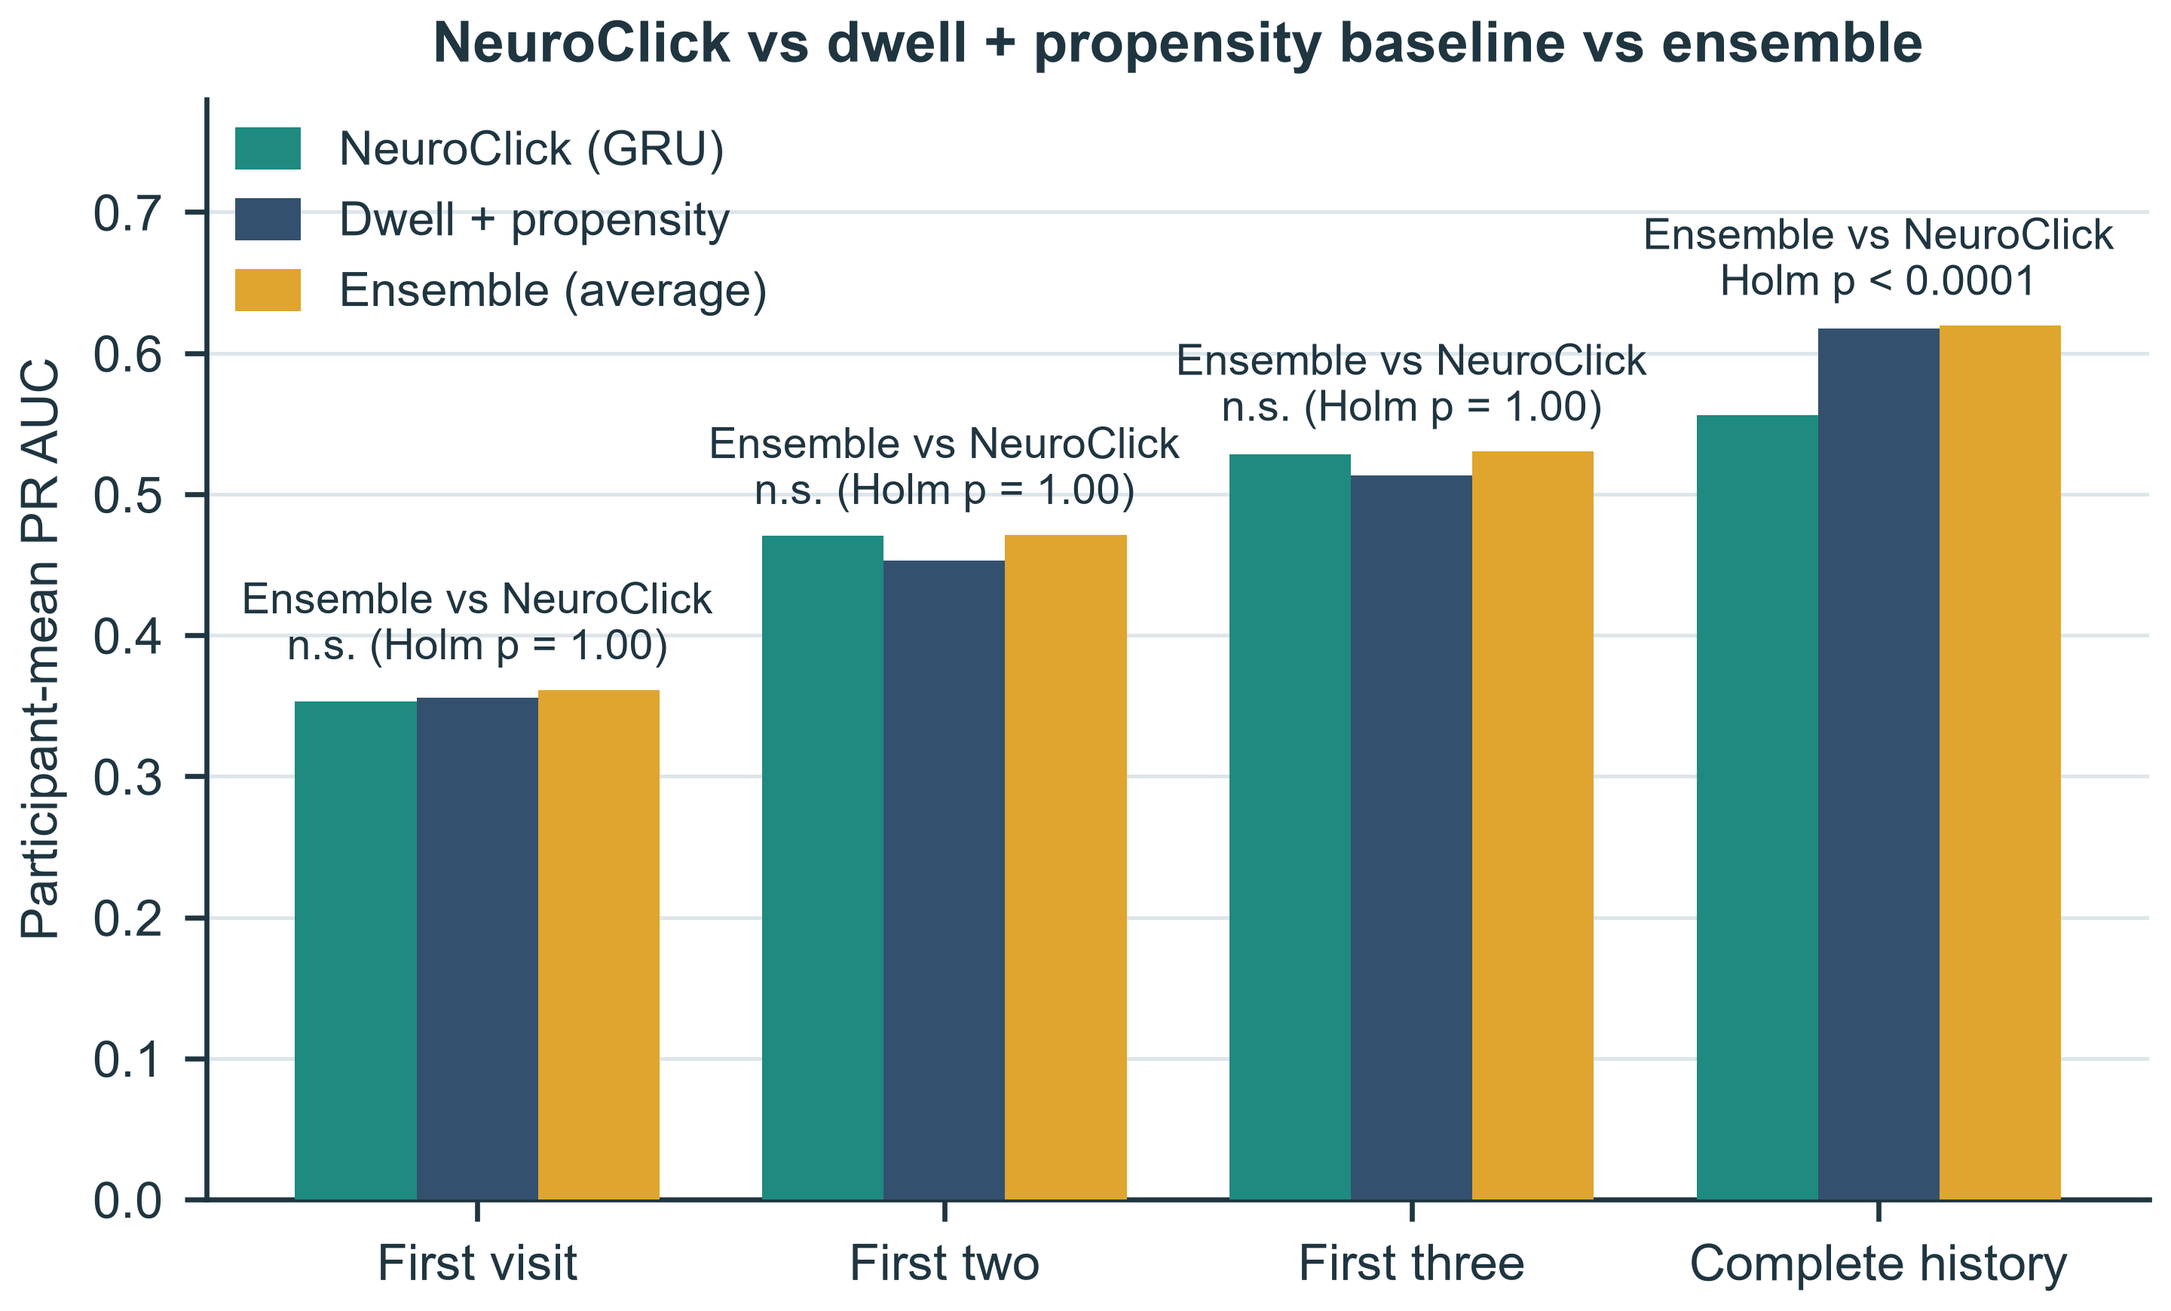
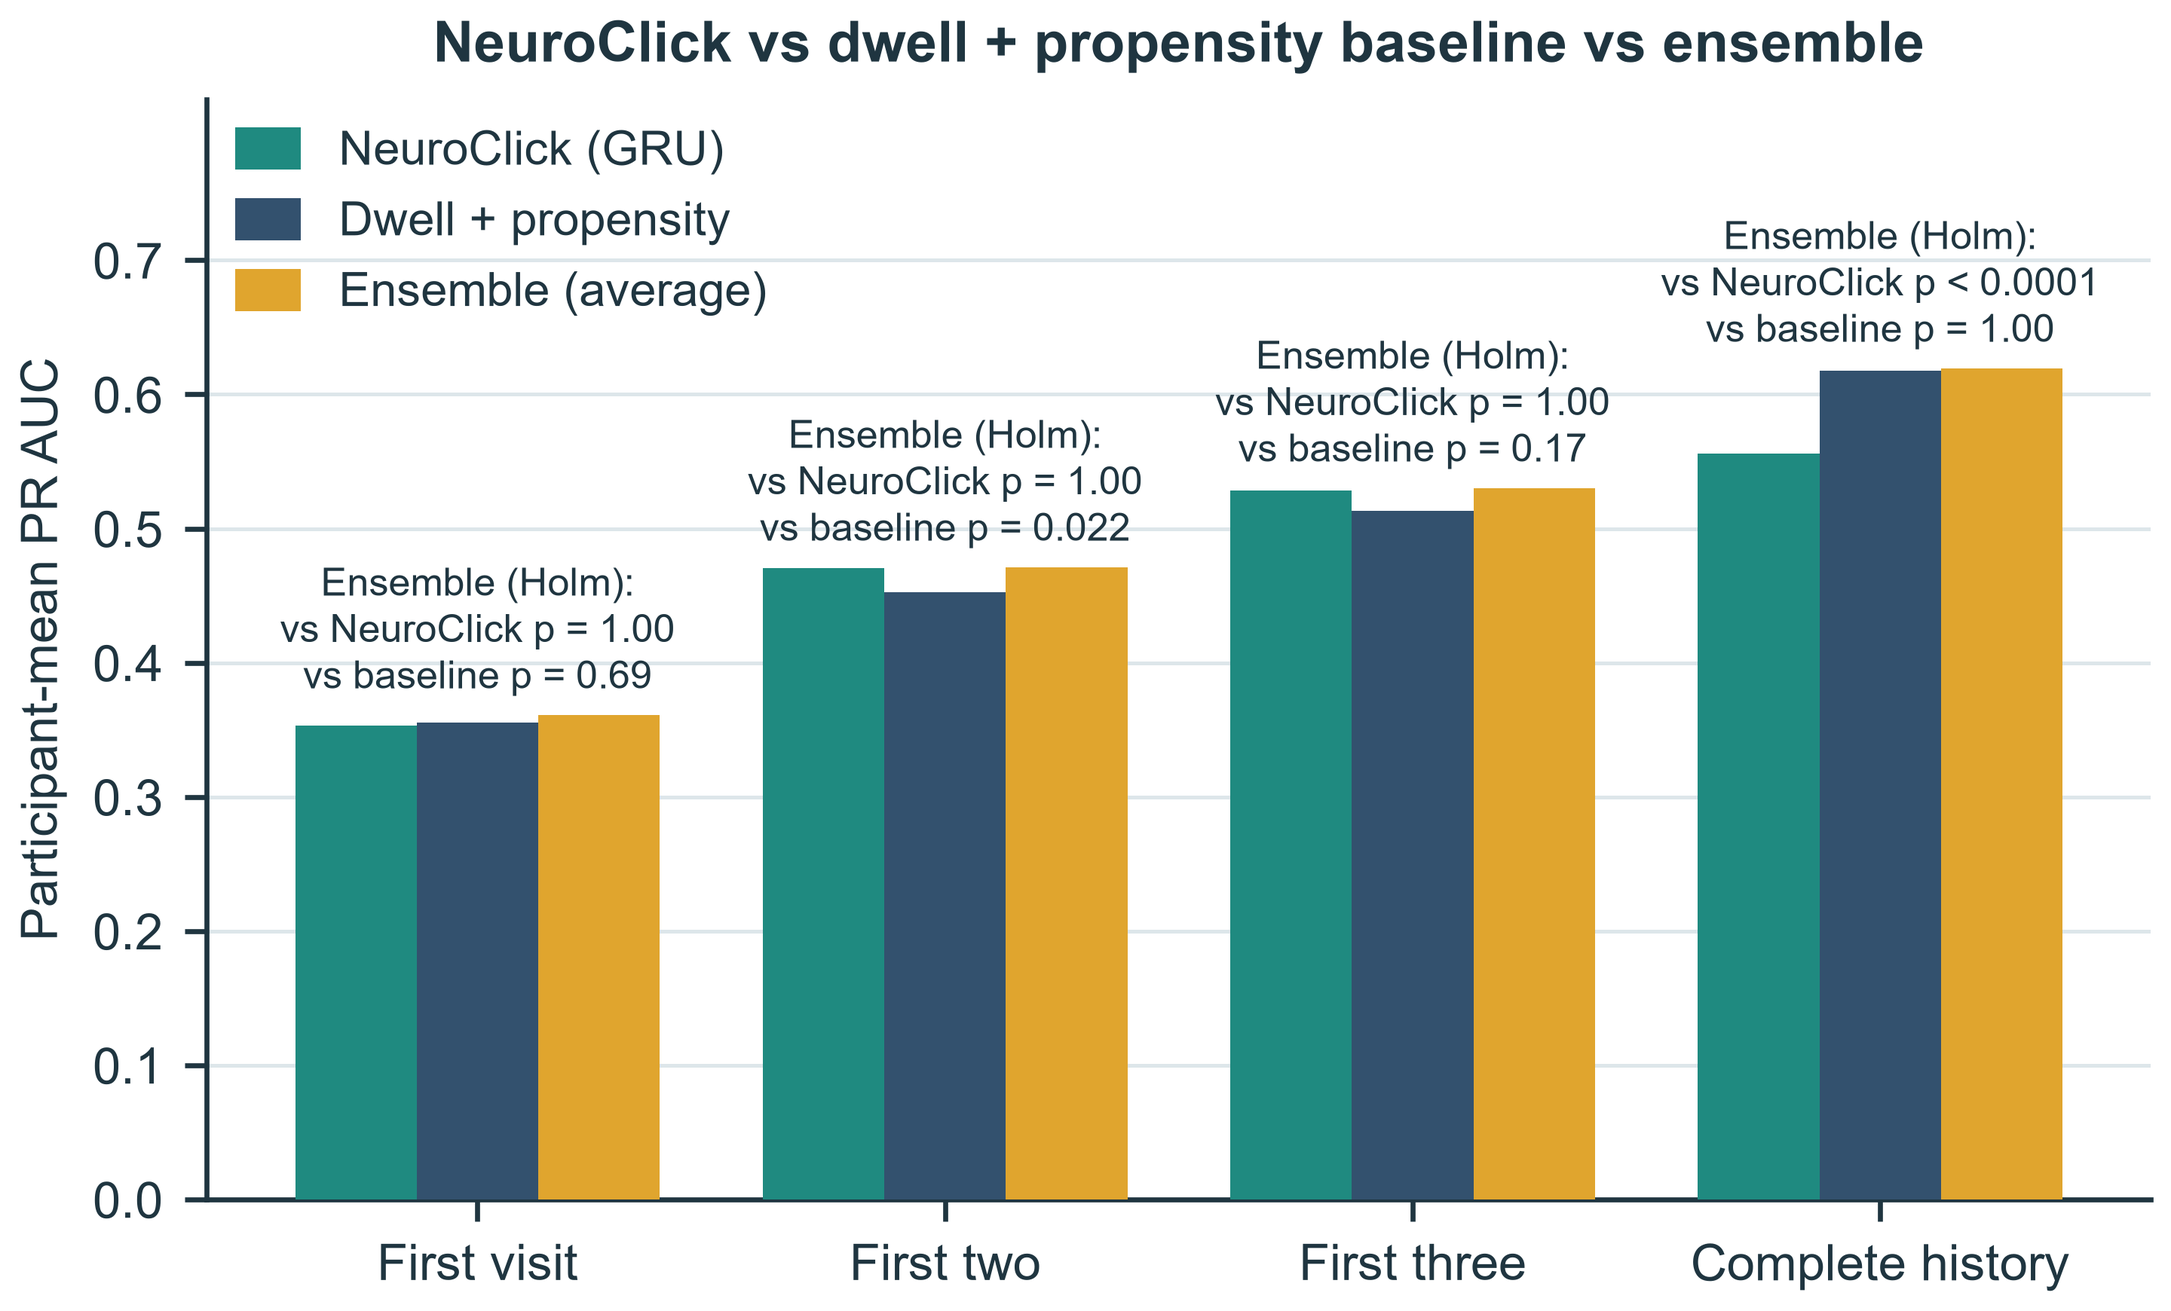
Camera-ready v10: second-audit edits (methods from code, exploratory labels, Fig. 7 with both p-values)

diff --git a/camera_ready/scripts/v6/apply_edits_v10.py b/camera_ready/scripts/v6/apply_edits_v10.py
@@ -1,0 +1,94 @@
+"""v10: second external audit. Every methods statement below was read from the released scripts
+(04_run_neuroclick_hazard.py, 03_run_classical_losocv_benchmarks.py, 02_build_..._causal_v1.py,
+01_audit_buy_nobuy_events.py) and the audit manifest (results/audit_full_42_v2)."""
+import os
+from lxml import etree
+W = 'http://schemas.openxmlformats.org/wordprocessingml/2006/main'
+def w(t): return '{%s}%s' % (W, t)
+BASE = os.path.dirname(os.path.abspath(__file__))
+DOC = os.path.join(BASE, 'unpacked', 'word', 'document.xml')
+tree = etree.parse(DOC); root = tree.getroot(); body = root.find(w('body')); ch = list(body)
+def ptext(p): return ''.join(t.text or '' for t in p.iter(w('t')))
+def rep(idx, old, new):
+    p = ch[idx]; hits = [t for t in p.iter(w('t')) if t.text and old in t.text]
+    assert len(hits) == 1 and hits[0].text.count(old) == 1, (idx, old[:60], len(hits), ptext(p)[:90])
+    hits[0].text = hits[0].text.replace(old, new); print(f'[{idx}] ok: {old[:55]}')
+
+# ---- 5. overstated wording + 1. ensemble qualification (abstract, intro, contribution 4)
+rep(5, 'but a logistic regression given the identical behaviour-plus-propensity inputs matched it (participant-mean difference −0.0025, Holm p = 0.76): at the first visit, browsing behaviour and propensity carry the measurable signal and the sequential architecture adds nothing measurable beyond them.',
+       'but a logistic regression given the same browsing-behaviour information plus the identical cross-fitted propensity matched it (participant-mean difference −0.0025, Holm p = 0.76): no statistically detectable advantage of the sequential architecture was observed at the first visit.')
+rep(5, 'A leakage-free ensemble of NeuroClick and this baseline', 'A parameter-free average ensemble of NeuroClick and this baseline')
+rep(9, 'Unlike conventional propensity-based purchase prediction, which produces a single retrospective score per user–item pair once the interaction is complete, this formulation estimates risk while browsing is still in progress,',
+       'Unlike purchase-prediction models that score a user–item pair only once the interaction is complete, this formulation estimates risk after each completed visit while browsing is still in progress,')
+rep(13, 'A horizon-wise, leakage-free ensemble analysis,', 'A horizon-wise ensemble analysis,')
+
+# ---- 4. sample retention (Sect. 3.1) and completed-visit definition + window end + truncation counts (Sect. 3.2)
+rep(21, 'The final cache contains 5,715 sequences: 746 Buy and 4,969 NoBuy sequences (Table 1);',
+        'Of the 6,048 participant-product pairs, 333 (10 of them with a recorded purchase click) received no gaze visit of at least 100 ms before their cutoff (Sect. 3.2) and are excluded; the final cache contains the remaining 5,715 sequences: 746 Buy and 4,969 NoBuy sequences (Table 1);')
+rep(28, 'A visit is retained only if it begins before its cutoff. Its end is clipped to the earliest of the observed end, the page-interval end, and the cutoff. One second of preceding signal history is sampled for the EEG and eye-tracking representations; missing history is marked by a validity mask.',
+        'A visit is retained only if it begins before its cutoff. Its end is the earliest of the observed end, the page-interval end, and the cutoff, so a retained visit may end naturally or be truncated at the cutoff; a "completed visit" in this paper is a visit that has reached this end, not necessarily one that gaze has left. Truncation is common for Buy sequences, because participants were usually still looking at the product 500 ms before clicking: the last pre-cutoff visit was still in progress at the cutoff in 490 of the 746 Buy sequences. The first visit itself is truncated only when it is the sole visit, which happened in 67 of the 93 single-visit Buy sequences (9.0% of all Buy first visits); every other Buy first visit ended naturally because a later visit followed. For each retained visit, the one second of signal immediately preceding its end is resampled for the EEG and eye-tracking representations, using only samples before that end; missing history is marked by a validity mask.')
+
+# ---- 2. final outer-fold fit (Sect. 3.5) and 3. baseline inputs, PR AUC implementation, pooled vs participant-level
+rep(43, 'the validation subset holds out 20% of training participants by grouped split (seed 42, deterministic).',
+        'the validation subset holds out 20% of training participants by grouped split (seed 42, deterministic). The early-stopped network serves only to choose the epoch count and the MCC thresholds: the network scored on the test participant is retrained from scratch on all 41 training participants for exactly that number of epochs, with the feature scaler and the training propensity refit on those 41 participants, and the inner-validation thresholds are applied unchanged to its test predictions.')
+rep(43, 'a classical logistic-regression baseline given the identical behaviour features plus the identical cross-fitted propensity (Sect. 4.1; labelled dwell + propensity in the tables and figures)',
+        'a classical logistic-regression baseline given a summary of the same visit history plus the identical cross-fitted propensity logit (Sect. 4.1; labelled dwell + propensity in the tables and figures)')
+rep(43, 'Every classical baseline standardises its inputs on the training partition',
+        'The classical behaviour baselines (logistic behaviour and dwell + propensity) do not receive NeuroClick\'s per-visit sequence; at every horizon they receive a ten-value summary of the visits observed up to that horizon: visit count; total, mean, standard-deviation and maximum dwell; elapsed time from the first visit\'s start to the current visit\'s end; mean and maximum inter-visit gap; and the mean EEG and eye-tracking validity fractions. At first1 this reduces to the initial dwell and the validity fractions. The total-dwell heuristic ranks by summed dwell alone and the product-propensity heuristic by the training-partition propensity alone. Every classical baseline standardises its inputs on the training partition')
+rep(43, 'Every participant-paired comparison is a two-sided Wilcoxon signed-rank test [20]',
+        'PR AUC is average precision as implemented in scikit-learn (non-interpolated). Pooled values (Tables 2–4) are computed once over all held-out predictions concatenated across the 42 folds; participant-level values are computed within each held-out participant and then averaged (Tables 5–6, Figs. 6–7), which is why pooled and participant-mean figures differ (for example NeuroClick\'s first1 MCC is 0.2220 pooled and 0.2336 as a participant mean). Every participant-paired comparison is a two-sided Wilcoxon signed-rank test [20]')
+
+# ---- Sect. 4.1 / 4.2 / 4.4 wording
+rep(46, 'This is significantly higher than logistic regression on the same five behaviour features alone',
+        'This is significantly higher than logistic regression on the browsing-behaviour summary alone')
+rep(46, 'is against a baseline given exactly the same two inputs: dwell features plus the identical cross-fitted propensity.',
+        'is against a baseline given the same two sources of information: the browsing-behaviour summary plus the identical cross-fitted propensity.')
+rep(56, 'but under the same correction that removed the first1 advantage, no horizon shows',
+        'but after Holm correction within the secondary comparison family, no horizon shows')
+rep(67, 'and that propensity itself is not a leakage artefact; they do not support that NeuroClick\'s recurrent architecture adds value beyond a linear combination of the same two inputs at this horizon.',
+        'while cross-fitting (Sect. 3.3) ensures that no training sequence\'s own label enters its propensity estimate; they do not support that NeuroClick\'s recurrent architecture adds value beyond a linear combination of the same two information sources at this horizon.')
+
+# ---- 1. Sect. 4.5: exploratory qualification
+rep(73, 'but are not re-nested within each outer training partition. All headline PR AUC results in this section use the parameter-free average.',
+        'but are not re-nested within each outer training partition. The stacked-ensemble and threshold-matched MCC results are therefore reported as exploratory; only the parameter-free average\'s PR AUC analysis, which involves no second-stage fitting, is treated as confirmatory, and all headline results in this section use it.')
+rep(79, 'For MCC, each held-out participant receives', 'For MCC (exploratory, see above), each held-out participant receives')
+rep(78, 'with Holm-corrected ensemble vs NeuroClick p-values.',
+        'with Holm-corrected p-values for the average ensemble against NeuroClick and against the dwell + propensity baseline.')
+
+# ---- Discussion, 5.1, Limitations, Conclusion
+rep(86, 'disappears against a baseline given the identical inputs – dwell features and the same cross-fitted propensity – combined via plain logistic regression',
+        'disappears against a baseline given the same information – a summary of the same visit history and the same cross-fitted propensity – combined via plain logistic regression')
+rep(86, 'combined in a leakage-free ensemble, the two significantly exceed', 'combined in the parameter-free average ensemble, the two significantly exceed')
+rep(88, 'subtle EEG effects would be indistinguishable from noise under participant-disjoint testing.',
+        'the cohort may have limited power to detect subtle EEG effects under participant-disjoint testing.')
+rep(90, 'Ranking purchase intent after a single completed visit enables lighter-touch, better-timed assistance – surfacing relevant support early rather than retargeting exhaustively – which can reduce intrusive advertising volume.',
+        'Ranking purchase intent after a single completed visit could enable lighter-touch, better-timed assistance – surfacing relevant support early rather than retargeting exhaustively – and might thereby reduce intrusive advertising volume; this is a potential application, not an outcome evaluated here.')
+rep(92, 'a visit in progress at the 500 ms pre-click cutoff is clipped there rather than ending naturally, so a "completed" visit immediately before a purchase can be shorter than its unclipped counterpart; the share of clipped visits and its effect on the first1 result have not been quantified.',
+        'a visit in progress at the 500 ms pre-click cutoff is truncated there rather than ending naturally (67 of the 746 Buy first visits, Sect. 3.2), so a "completed" visit immediately before a purchase can be shorter than its untruncated counterpart; the effect of these truncated visits on the first1 result has not been isolated.')
+rep(94, 'does not demonstrate an advantage over a linear model given the same two inputs at that horizon',
+        'does not demonstrate an advantage over a linear model given the same two information sources at that horizon')
+rep(94, 'the leakage-free ensemble of NeuroClick and the dwell-plus-propensity baseline', 'the parameter-free average ensemble of NeuroClick and the dwell-plus-propensity baseline')
+
+# ---- Table 7: give the implemented propensity rule
+tbl7 = ch[83]; assert tbl7.tag == w('tbl')
+cell = tbl7.findall(w('tr'))[5].findall(w('tc'))[1]
+ts = [t for t in cell.iter(w('t')) if t.text]; full = ''.join(t.text for t in ts)
+assert full.startswith('Beta shrinkage toward training prevalence'), full[:60]
+ts[0].text = ('p(product) = (nBuy + m × π) / (n + m), where n is the number of training sequences for the product, nBuy its Buy count, '
+              'π the training-partition Buy prevalence and m = 10 (beta shrinkage toward prevalence); cross-fitted with 5-fold GroupKFold on '
+              'participant (Sect. 3.3) so no bag\'s own label enters its own propensity value.')
+for t in ts[1:]: t.text = ''
+print('Table 7 propensity rule written')
+
+# ---- Table 2: keep the whole table on one page (keepNext on every row but the last)
+tbl2 = ch[48]; assert tbl2.tag == w('tbl'); rows = tbl2.findall(w('tr')); n = 0
+for r in rows[:-1]:
+    for p in r.iter(w('p')):
+        pPr = p.find(w('pPr'))
+        if pPr is None: pPr = etree.Element(w('pPr')); p.insert(0, pPr)
+        if pPr.find(w('keepNext')) is None:
+            ps = pPr.find(w('pStyle')); idx = list(pPr).index(ps) + 1 if ps is not None else 0
+            pPr.insert(idx, etree.Element(w('keepNext'))); n += 1
+print('Table 2 keepNext paragraphs:', n)
+tree.write(DOC, xml_declaration=True, encoding='UTF-8', standalone=True)
+print('abstract words:', len(ptext(ch[5]).replace('Abstract.', '').split()))

diff --git a/camera_ready/scripts/v6/make_fig7.py b/camera_ready/scripts/v6/make_fig7.py
@@ -17,7 +17,7 @@ labels = ['First visit', 'First two', 'First three', 'Complete history']
 nc = [.3532, .4703, .5283, .5558]
 base = [.3557, .4527, .5133, .6176]
 ens = [.3612, .4713, .5303, .6195]
-ann = ['n.s. (Holm p = 1.00)', 'n.s. (Holm p = 1.00)', 'n.s. (Holm p = 1.00)', 'Holm p < 0.0001']
+ann = ['vs NeuroClick p = 1.00\nvs baseline p = 0.69', 'vs NeuroClick p = 1.00\nvs baseline p = 0.022', 'vs NeuroClick p = 1.00\nvs baseline p = 0.17', 'vs NeuroClick p < 0.0001\nvs baseline p = 1.00']
 
 fig, ax = plt.subplots(figsize=(4.8, 2.9), dpi=600)
 x = np.arange(4); w = 0.26
@@ -26,10 +26,10 @@ b2 = ax.bar(x, base, w, color=NAVY_HEX, label='Dwell + propensity', zorder=3)
 b3 = ax.bar(x + w, ens, w, color=ORANGE_HEX, label='Ensemble (average)', zorder=3)
 for i in range(4):
     top = max(nc[i], base[i], ens[i])
-    ax.text(x[i], top + 0.012, 'Ensemble vs NeuroClick\n' + ann[i], ha='center', va='bottom', fontsize=6.8,
+    ax.text(x[i], top + 0.010, 'Ensemble (Holm):\n' + ann[i], ha='center', va='bottom', fontsize=6.3,
             linespacing=1.25, color=INK_HEX)
 ax.set_xticks(x); ax.set_xticklabels(labels)
-ax.set_ylim(0, 0.78); ax.set_yticks(np.arange(0, 0.71, 0.1))
+ax.set_ylim(0, 0.82); ax.set_yticks(np.arange(0, 0.71, 0.1))
 ax.set_ylabel('Participant-mean PR AUC')
 ax.spines[['top', 'right']].set_visible(False)
 ax.grid(axis='y', color='#DDE6EA', lw=0.6, zorder=0); ax.set_axisbelow(True)
@@ -38,4 +38,5 @@ ax.set_title('NeuroClick vs dwell + propensity baseline vs ensemble', fontweight
 fig.tight_layout(pad=0.4)
 fig.savefig(os.path.join(OUT, 'fig7.png'), dpi=600)
 print('fig7 done')
+
 

diff --git a/camera_ready/scripts/v6/scale_fig.py b/camera_ready/scripts/v6/scale_fig.py
@@ -1,0 +1,21 @@
+"""Scale the placed size of one figure: scale_fig.py <media name> <factor>"""
+import os, sys
+from lxml import etree
+A = 'http://schemas.openxmlformats.org/drawingml/2006/main'
+WP = 'http://schemas.openxmlformats.org/drawingml/2006/wordprocessingDrawing'
+R = 'http://schemas.openxmlformats.org/officeDocument/2006/relationships'
+W = 'http://schemas.openxmlformats.org/wordprocessingml/2006/main'
+BASE = os.path.dirname(os.path.abspath(__file__)); U = os.path.join(BASE, 'unpacked', 'word')
+name, f = sys.argv[1], float(sys.argv[2])
+rels = etree.parse(os.path.join(U, '_rels', 'document.xml.rels')).getroot()
+rid = [r.get('Id') for r in rels if r.get('Target') == 'media/' + name][0]
+tree = etree.parse(os.path.join(U, 'document.xml')); root = tree.getroot(); n = 0
+for d in root.iter('{%s}drawing' % W):
+    blip = d.find('.//{%s}blip' % A)
+    if blip is None or blip.get('{%s}embed' % R) != rid: continue
+    for ext in [d.find('.//{%s}extent' % WP), d.find('.//{%s}ext' % A)]:
+        cx, cy = int(ext.get('cx')), int(ext.get('cy'))
+        ext.set('cx', str(int(cx * f))); ext.set('cy', str(int(cy * f))); n += 1
+        print(name, 'extent', cx // 12700, 'x', cy // 12700, 'pt ->', int(cx * f) // 12700, 'x', int(cy * f) // 12700, 'pt')
+assert n == 2, n
+tree.write(os.path.join(U, 'document.xml'), xml_declaration=True, encoding='UTF-8', standalone=True)

diff --git a/camera_ready/scripts/v6/finish_any.py b/camera_ready/scripts/v6/finish_any.py
@@ -1,0 +1,11 @@
+import fitz, shutil, os, sys
+p = sys.argv[1]; s = os.path.dirname(p); d = fitz.open(p)
+d.set_metadata({'title': 'NeuroClick: Early Purchase Ranking from Ordered Neuromarketing Visits', 'author': 'Priyadharshini D; Shridevi S',
+                'subject': 'ICAIN 2026, paper 456', 'keywords': 'Neuromarketing; Purchase prediction; Eye tracking; EEG; Sequential modelling; Participant-independent validation',
+                'creator': 'Microsoft Word 2010', 'producer': 'Microsoft Word 2010'})
+d.save(p + '.tmp', garbage=4, deflate=True); d.close(); shutil.move(p + '.tmp', p)
+d = fitz.open(p); txt = '\n'.join(pg.get_text() for pg in d)
+print('pages', d.page_count, '| http in refs:', txt.split('References')[-1].count('http'), '| doi: count:', txt.count('doi:'), '| words', len(txt.split()))
+os.makedirs(os.path.join(s, 'render'), exist_ok=True)
+tag = os.path.basename(p).split('_')[-1].replace('.pdf', '')
+for i in range(d.page_count): d[i].get_pixmap(dpi=80).save(os.path.join(s, 'render', f'{tag}_p{i+1:02d}.png'))
